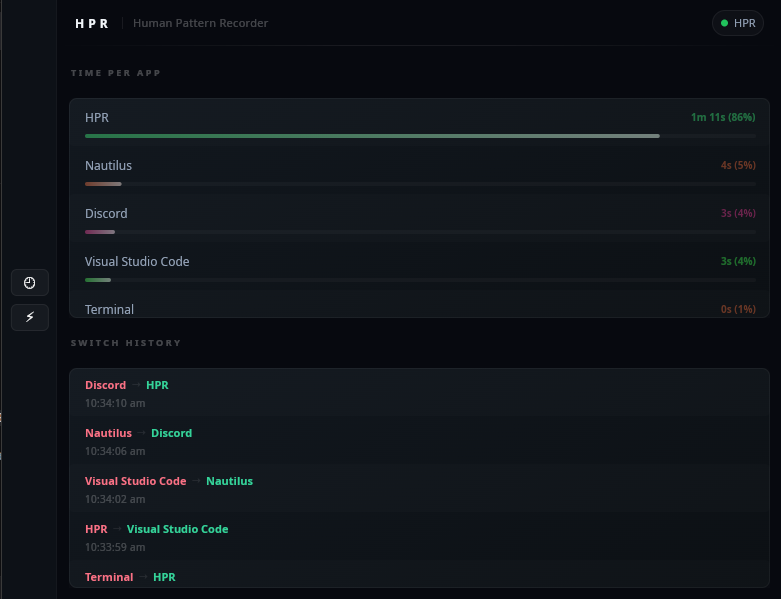
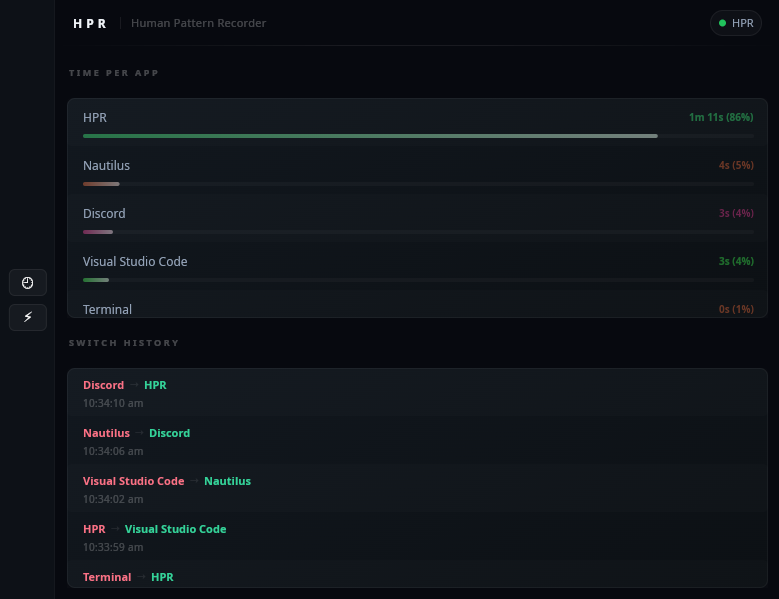
Update readme

diff --git a/README.md b/README.md
@@ -10,9 +10,7 @@ A lightweight, offline activity tracker for Windows and Linux. HPR runs silently
 
 > Currently in active development. Core tracking and persistence are fully functional. UI is pretty, the data is real.
 
-<p align="center">
-  <img src="./assets/HPRhome.png" alt="HPR Home Screen" width="800"/>
-</p>
+
 
 ---
 ---
